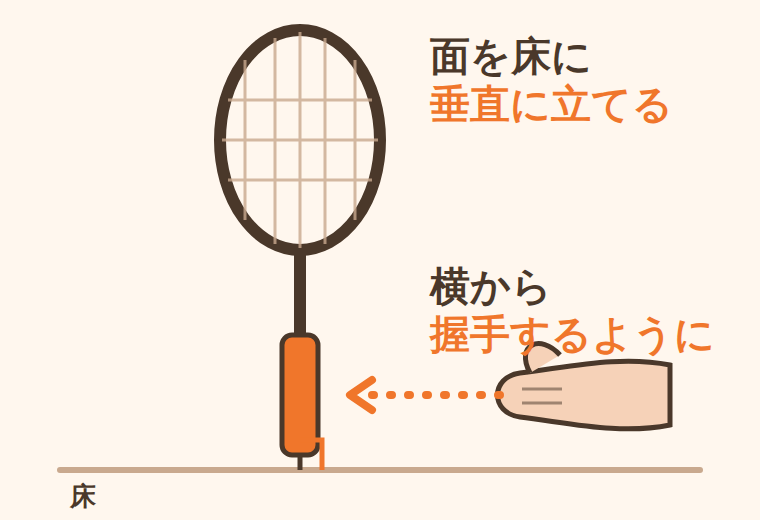
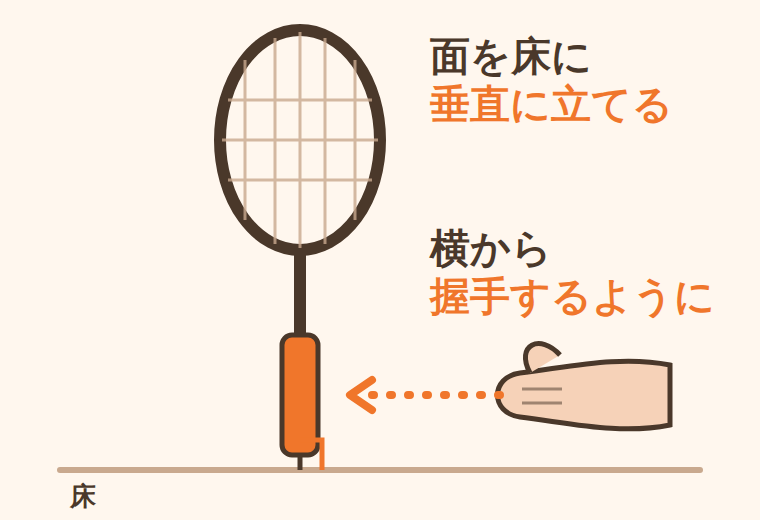
feat: 握り方リールを36秒・10場面に組み直す
各ポイントに補足の場面を足し、おさらいの場面を追加。図1の文字が手に触れていたので上へずらした。

Claude-Session: https://claude.ai/code/session_01MtFUXoaQsa46QsyPNUPYjG

Changed region(s): [[0.5447, 0.4308, 0.9382, 0.6769]]

diff --git a/assets/reels/grip-diagrams.html b/assets/reels/grip-diagrams.html
@@ -32,8 +32,8 @@
  <path d="M372 380 L350 395 L372 410" fill="none" stroke="#F0762B" stroke-width="8" stroke-linecap="round" stroke-linejoin="round"/>
  <text x="430" y="70" class="lb" font-size="40">面を床に</text>
  <text x="430" y="118" class="lb or" font-size="40">垂直に立てる</text>
- <text x="430" y="300" class="lb" font-size="40">横から</text>
- <text x="430" y="348" class="lb or" font-size="40">握手するように</text>
+ <text x="430" y="262" class="lb" font-size="40">横から</text>
+ <text x="430" y="310" class="lb or" font-size="40">握手するように</text>
 </svg>
 <!-- 図2：ふんわり握る -->
 <svg id="d2" width="760" height="520" viewBox="0 0 760 520">
